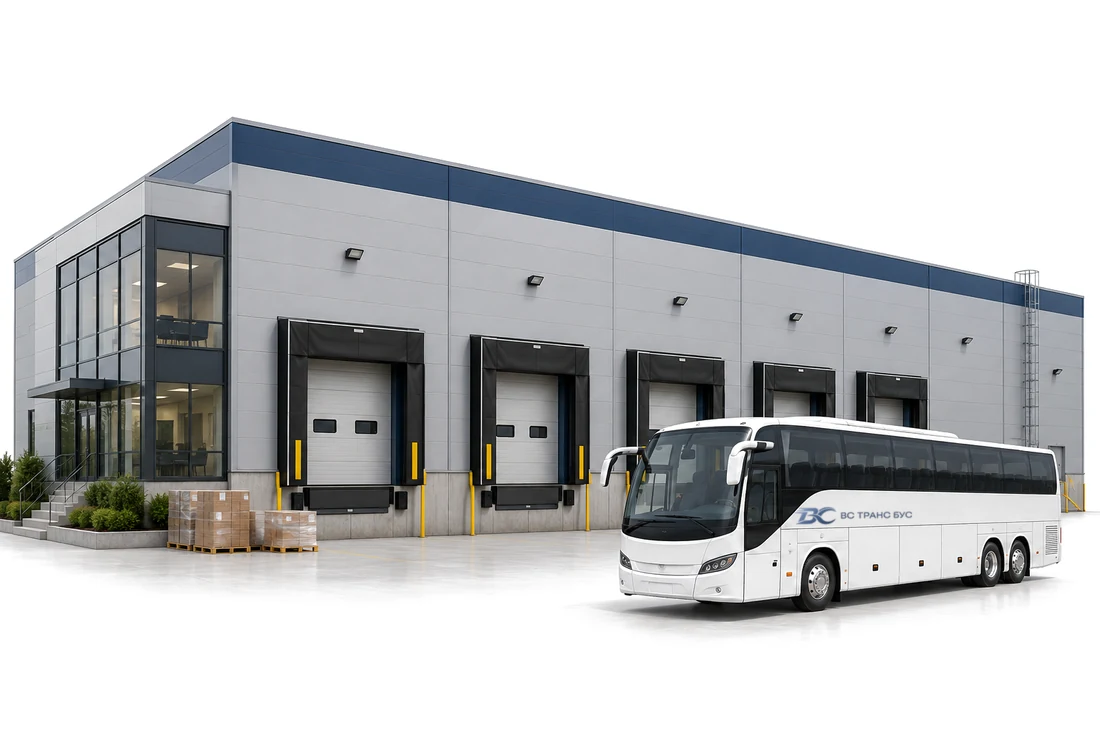
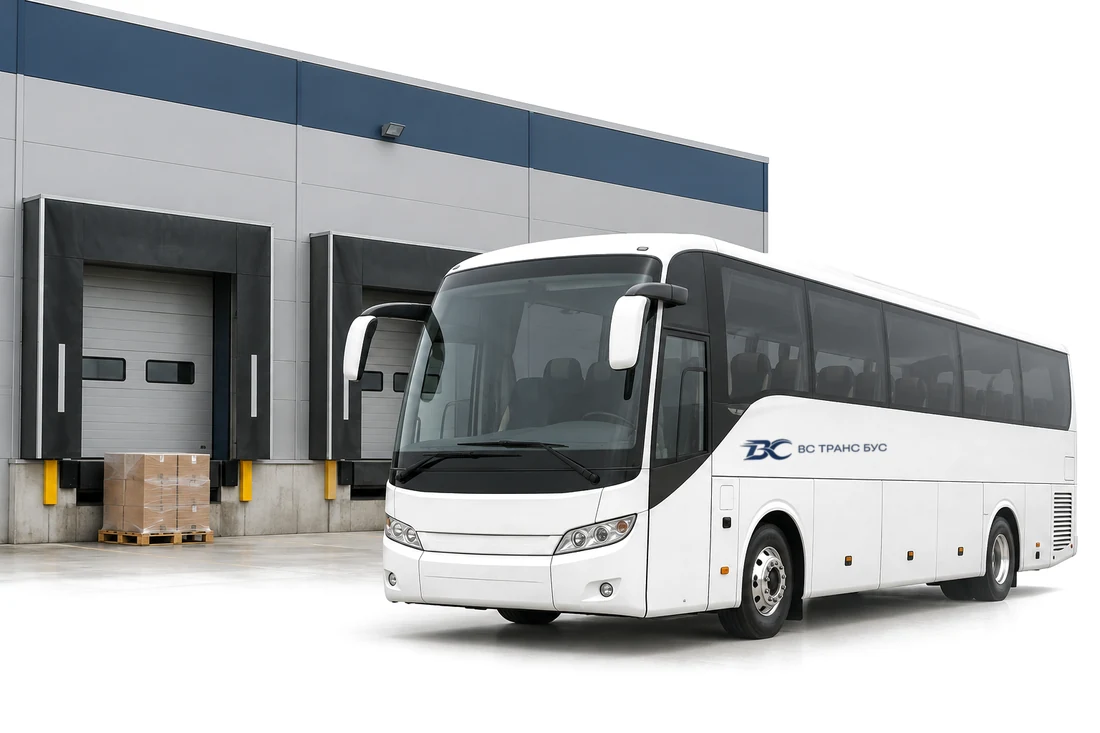
Склад и завод перегенерированы в одной композиции с офисом, с логотипом

diff --git a/index.html b/index.html
@@ -83,7 +83,7 @@
           <h3 class="card__title">Склады</h3>
           <p class="card__text">Сотрудники складов и распределительных центров. Дневные и ночные смены.</p>
         </div>
-        <img class="card__img" src="img/sklad.webp" alt="Автобус у склада" width="1100" height="733" loading="lazy">
+        <img class="card__img" src="img/sklad.webp?v=3" alt="Автобус у склада" width="1100" height="733" loading="lazy">
         <span class="card__go" aria-hidden="true"></span>
       </a>
       <a class="card reveal" href="#kontakty">
@@ -91,7 +91,7 @@
           <h3 class="card__title">Заводы</h3>
           <p class="card__text">Рабочие смены на производство по графику предприятия.</p>
         </div>
-        <img class="card__img" src="img/zavod.webp" alt="Автобус у завода" width="1100" height="733" loading="lazy">
+        <img class="card__img" src="img/zavod.webp?v=3" alt="Автобус у завода" width="1100" height="733" loading="lazy">
         <span class="card__go" aria-hidden="true"></span>
       </a>
       <a class="card reveal" href="#kontakty">
